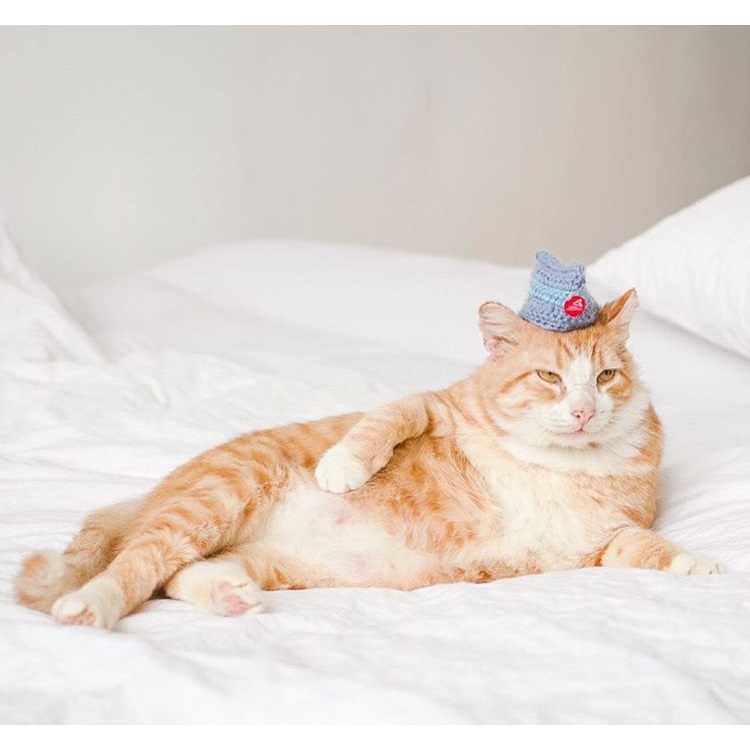
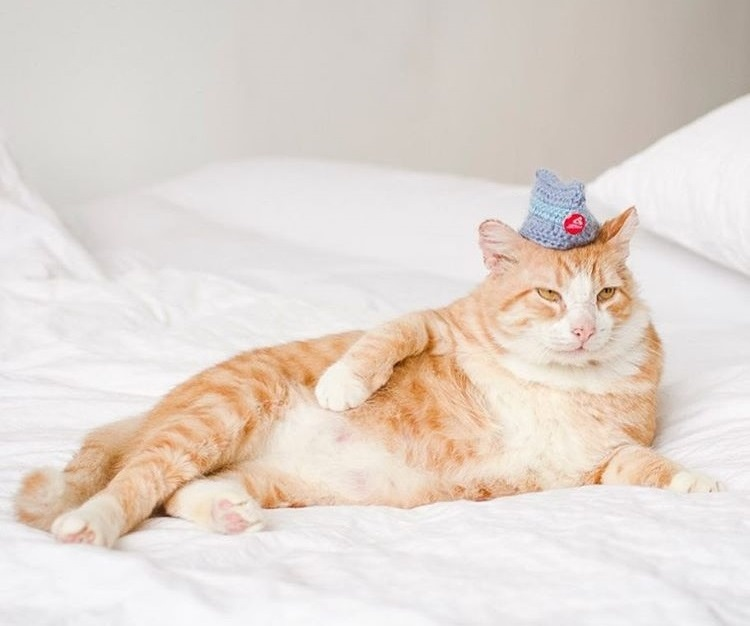
Сделала выравнивание по нижней границе фотографий

diff --git a/index.html b/index.html
@@ -23,7 +23,9 @@
 
 <main>
     <div class="cat">
-        <img class="image" src="images/Бендер.jpg" alt="Бендер" title="Бендер">
+        <div class="container">
+            <img class="image" src="images/Бендер.jpg" alt="Бендер" title="Бендер">
+        </div>
 
         <div class="info">
             <a class="name" href="//www.instagram.com/explore/tags/бендер_catsekb/"
@@ -43,7 +45,9 @@
     </div>
 
     <div class="cat">
-        <img class="image" src="images/Кабачок.jpg" alt="Кабачок" title="Кабачок">
+        <div class="container">
+            <img class="image" src="images/Кабачок.jpg" alt="Кабачок" title="Кабачок">
+        </div>
 
         <div class="info">
             <a class="name" href="//www.instagram.com/explore/tags/кабачок_catsekb/"
@@ -64,7 +68,9 @@
     </div>
 
     <div class="cat">
-        <img class="image" src="images/Пират.jpg" alt="Пират" title="Пират">
+        <div class="container">
+            <img class="image" src="images/Пират.jpg" alt="Пират" title="Пират">
+        </div>
 
         <div class="info">
             <a class="name" href="//www.instagram.com/explore/tags/пират_catsekb/"
@@ -84,7 +90,9 @@
     </div>
 
     <div class="cat">
-        <img class="image" src="images/Дон.jpg" alt="Дон" title="Дон">
+        <div class="container">
+            <img class="image" src="images/Дон.jpg" alt="Дон" title="Дон">
+        </div>
 
         <div class="info">
             <a class="name" href="//www.instagram.com/explore/tags/дон_catsekb/"
@@ -104,7 +112,9 @@
     </div>
 
     <div class="cat">
-        <img class="image" src="images/Грю.jpg" alt="Грю" title="Грю">
+        <div class="container">
+            <img class="image" src="images/Грю.jpg" alt="Грю" title="Грю">
+        </div>
 
         <div class="info">
             <a class="name" href="//www.instagram.com/explore/tags/грю_catsekb/"
@@ -125,7 +135,9 @@
     </div>
 
     <div class="cat">
-        <img class="image" src="images/Апельсин.jpg" alt="Апельсин" title="Апельсин">
+        <div class="container">
+            <img class="image" src="images/Апельсин.jpg" alt="Апельсин" title="Апельсин">
+        </div>
 
         <div class="info">
             <a class="name" href="//www.instagram.com/explore/tags/апельсин_catsekb/"
@@ -145,7 +157,9 @@
     </div>
 
     <div class="cat">
-        <img class="image" src="images/Ангел.jpg" alt="Ангел" title="Ангел">
+        <div class="container">
+            <img class="image" src="images/Ангел.jpg" alt="Ангел" title="Ангел">
+        </div>
 
         <div class="info">
             <a class="name" href="//www.instagram.com/explore/tags/ангел_catsekb/"
@@ -165,7 +179,9 @@
     </div>
 
     <div class="cat">
-        <img class="image" src="images/Пушок.jpg" alt="Пушок" title="Пушок">
+        <div class="container">
+            <img class="image" src="images/Пушок.jpg" alt="Пушок" title="Пушок">
+        </div>
 
         <div class="info">
             <a class="name" href="//www.instagram.com/explore/tags/пушок_catsekb/"
@@ -186,7 +202,9 @@
     </div>
 
     <div class="cat">
-        <img class="image" src="images/Камилла.jpg" alt="Камилла" title="Камилла">
+        <div class="container">
+            <img class="image" src="images/Камилла.jpg" alt="Камилла" title="Камилла">
+        </div>
 
         <div class="info">
             <a class="name" href="//www.instagram.com/explore/tags/камилла_catsekb/"
@@ -206,7 +224,9 @@
     </div>
 
     <div class="cat">
-        <img class="image" src="images/Лева.jpg" alt="Лева" title="Лева">
+        <div class="container">
+            <img class="image" src="images/Лева.jpg" alt="Лева" title="Лева">
+        </div>
 
         <div class="info">
             <a class="name" href="//www.instagram.com/explore/tags/лёва_catsekb/"

diff --git a/index.css b/index.css
@@ -39,14 +39,20 @@ header
 
 .cat:hover
 {
-    border: 1px solid #a9a9a9;
-    margin: 29px;
+    outline: 1px solid #a9a9a9;
+}
+
+.container
+{
+    line-height: 260px;
 }
 
 .image
 {
-    width: 250px;
-    margin-top: 5px;
+    display: inline-block;
+    vertical-align: bottom;
+    max-height: 250px;
+    max-width: 95%;
 }
 
 .image:hover
@@ -57,6 +63,7 @@ header
 .info,
 .description
 {
+    margin-top: 10px;
     overflow: hidden;
     text-overflow: ellipsis;
     padding-left: 5px;
@@ -113,17 +120,29 @@ header
     width: 90%;
 }
 
+.list:checked ~ main .container
+{
+    display: inline-block;
+    vertical-align: top;
+    max-width: 300px;
+}
+
+.list:checked ~ main .container .image
+{
+    vertical-align: middle;
+}
+
 .list:checked ~ main .info,
 .list:checked ~ main .description
 {
     display: inline-block;
     vertical-align: top;
-    width: 30%;
-    margin: 5px 0 0 80px;
+    width: 27%;
+    margin: 10px 0 0 80px;
 }
 
 .list:checked ~ main
 {
-    min-width: 1000px;
+    min-width: 1200px;
     font-size: 20px;
 }
